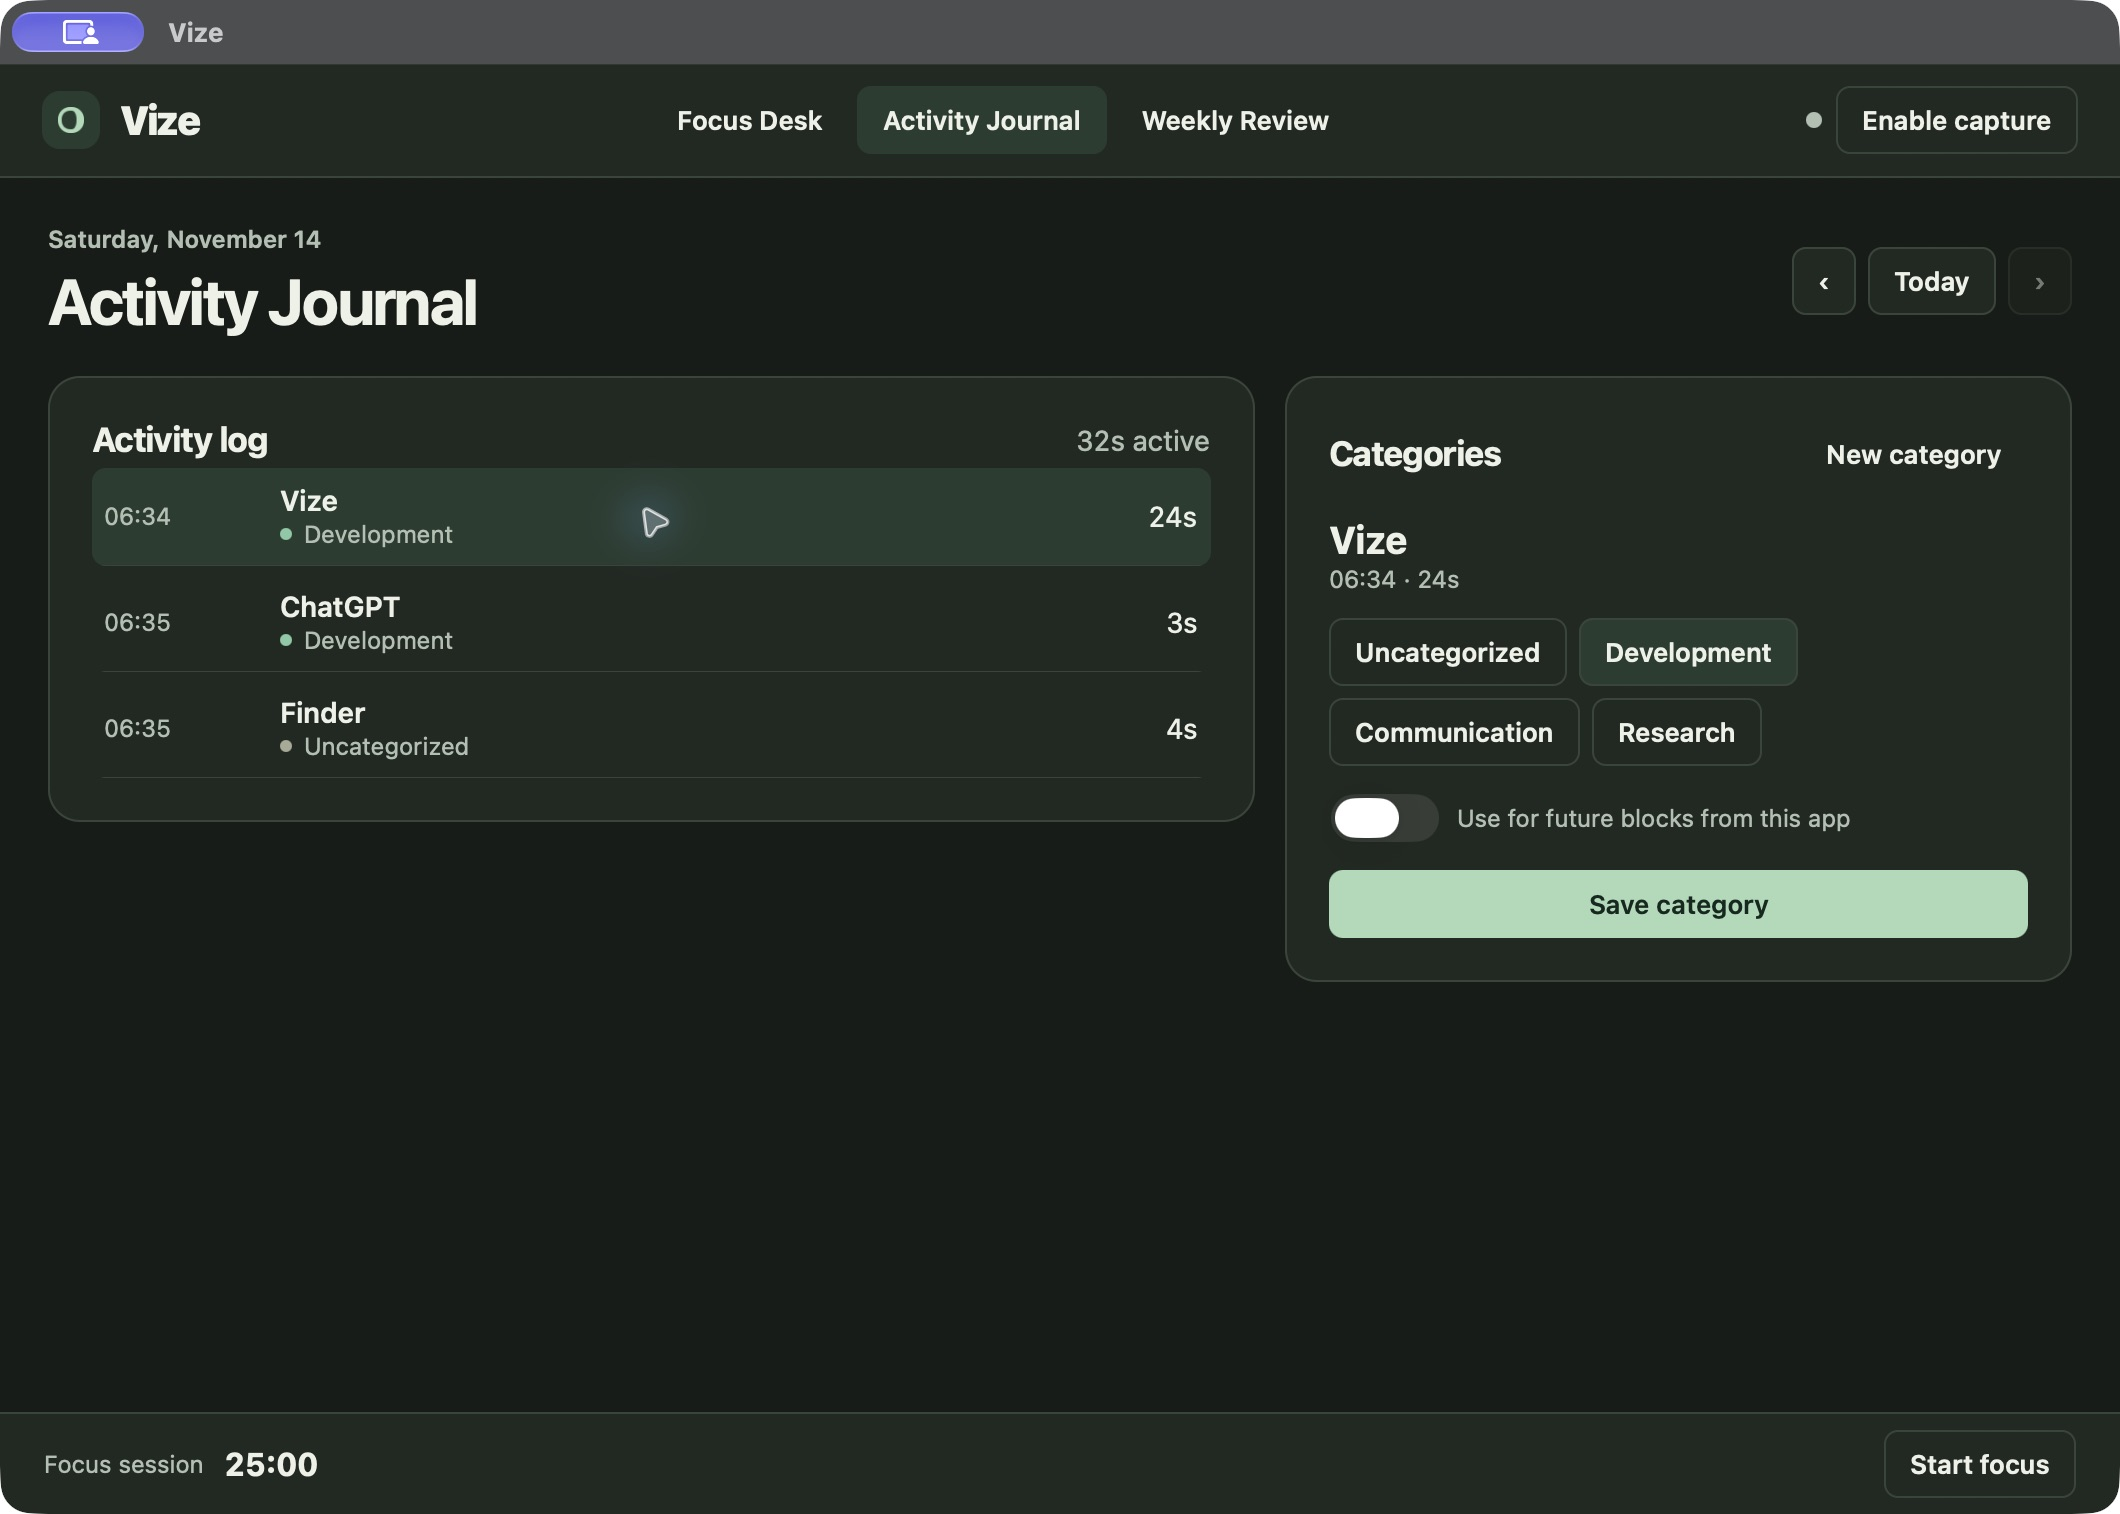
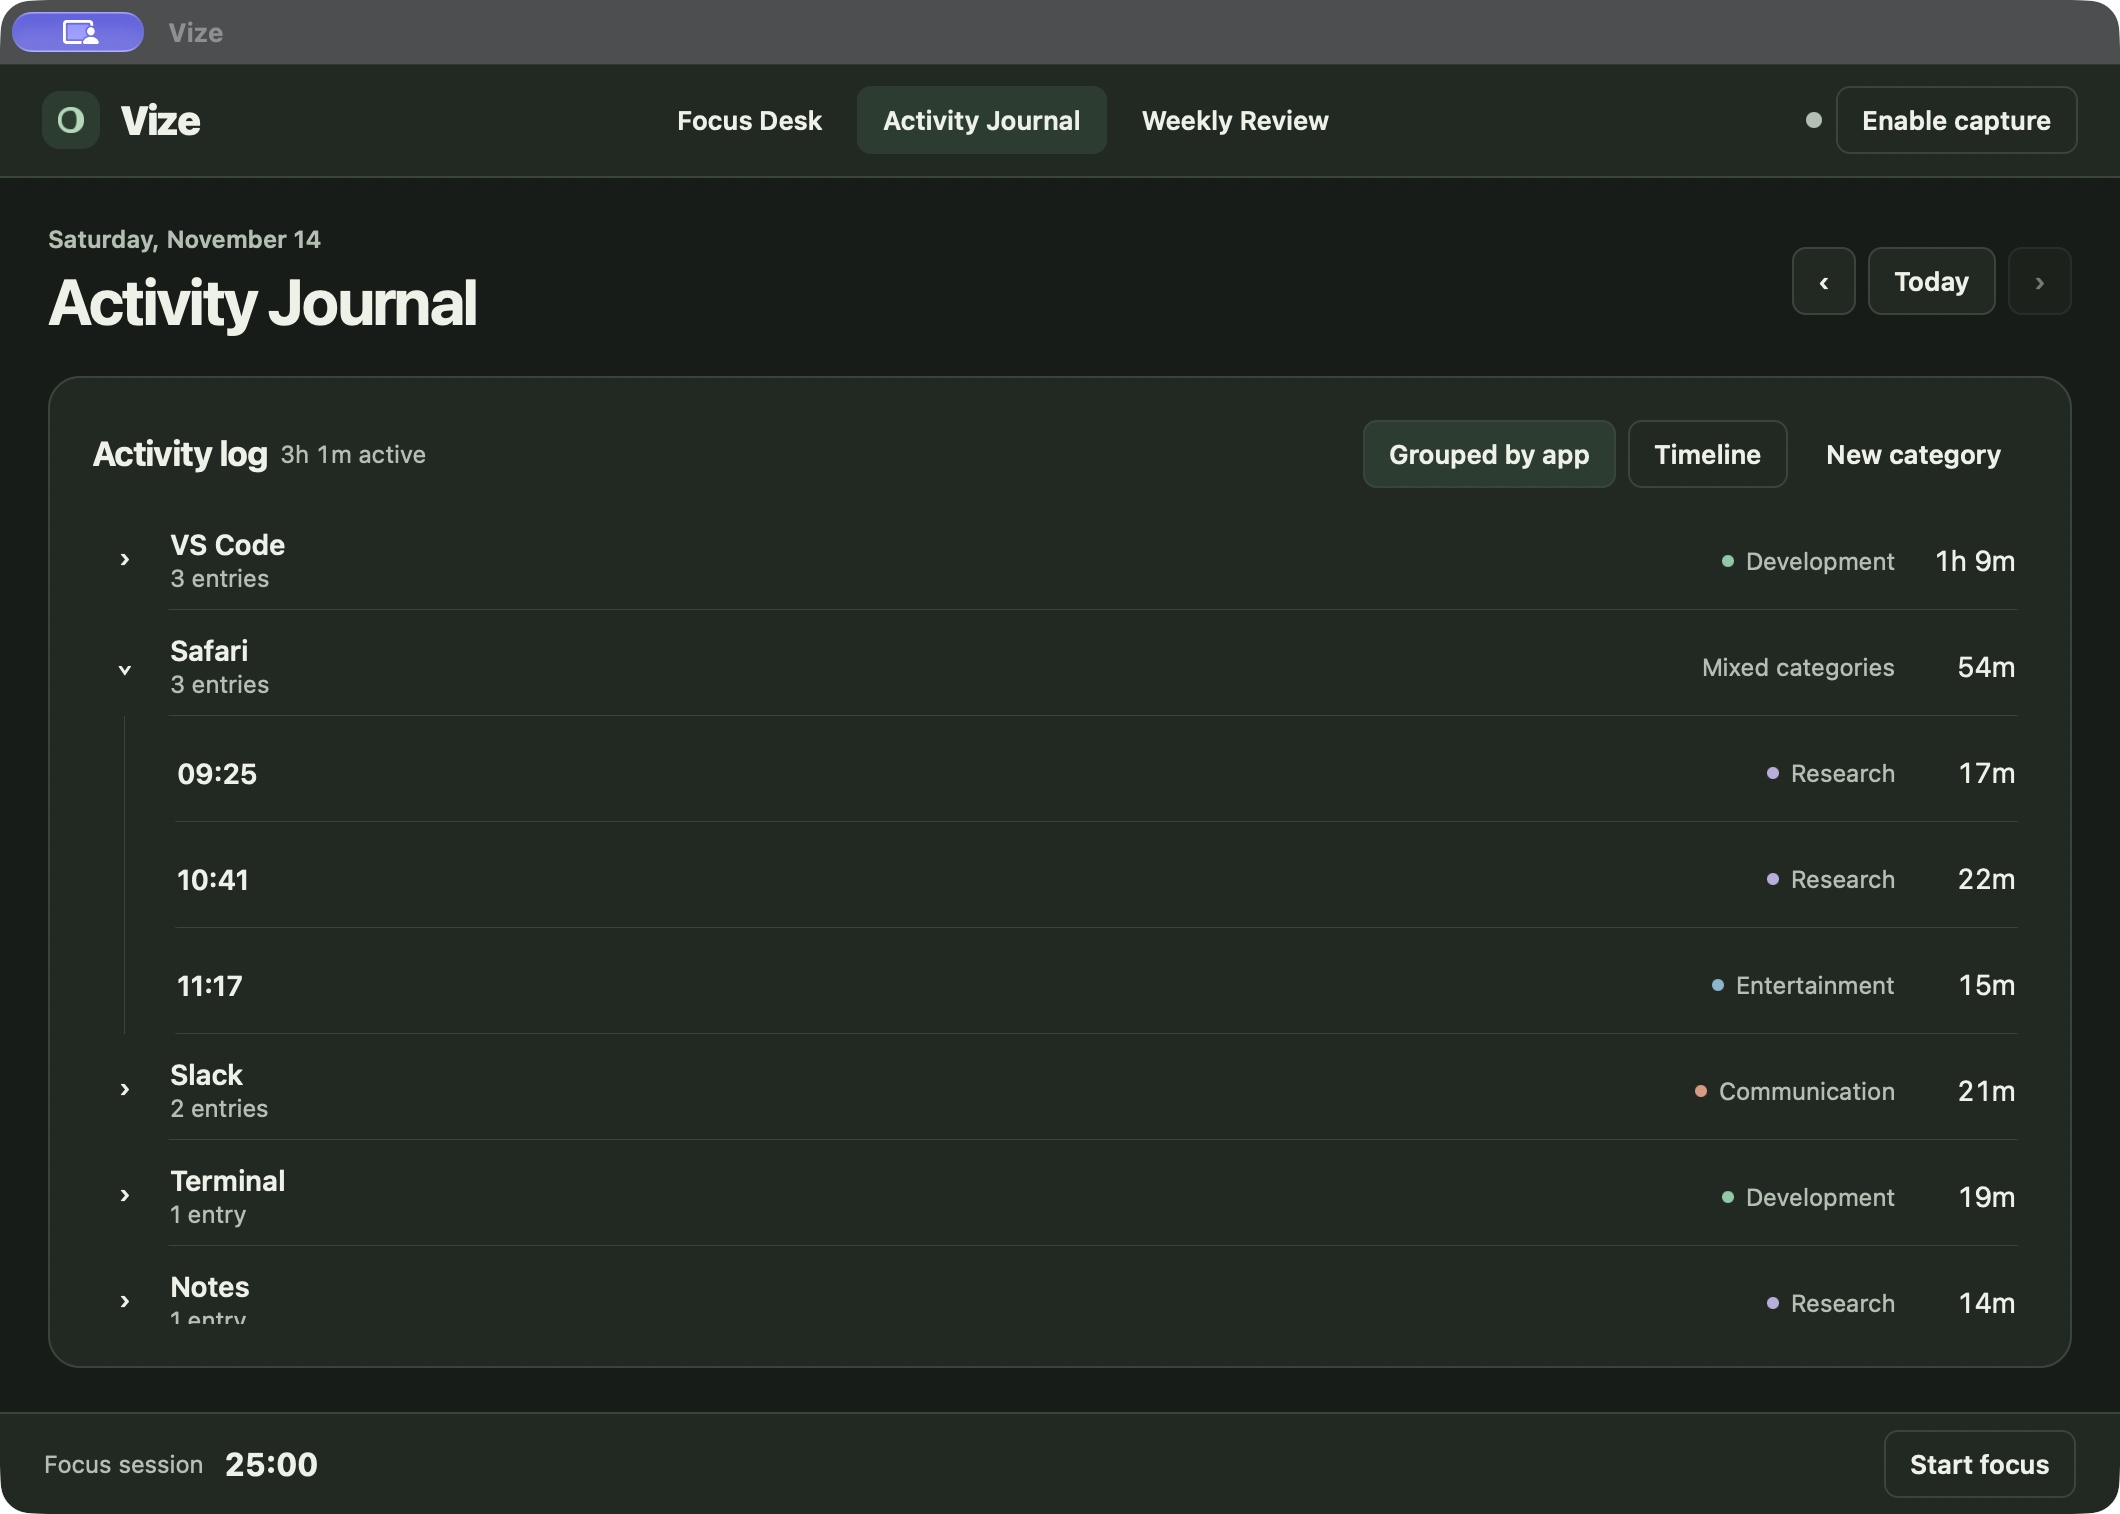
Refresh README screenshots

diff --git a/README.md b/README.md
@@ -14,7 +14,7 @@ Vize runs offline and stores its database in Application Support. The database i
 
 ### Activity Journal
 
-![Vize Activity Journal with a selected app block and its category controls](docs/screenshots/activity-journal.jpg)
+![Vize Activity Journal grouped by app and sorted by total time, with Safari expanded to show entries in different categories](docs/screenshots/activity-journal.jpg)
 
 ### Weekly Review
 
